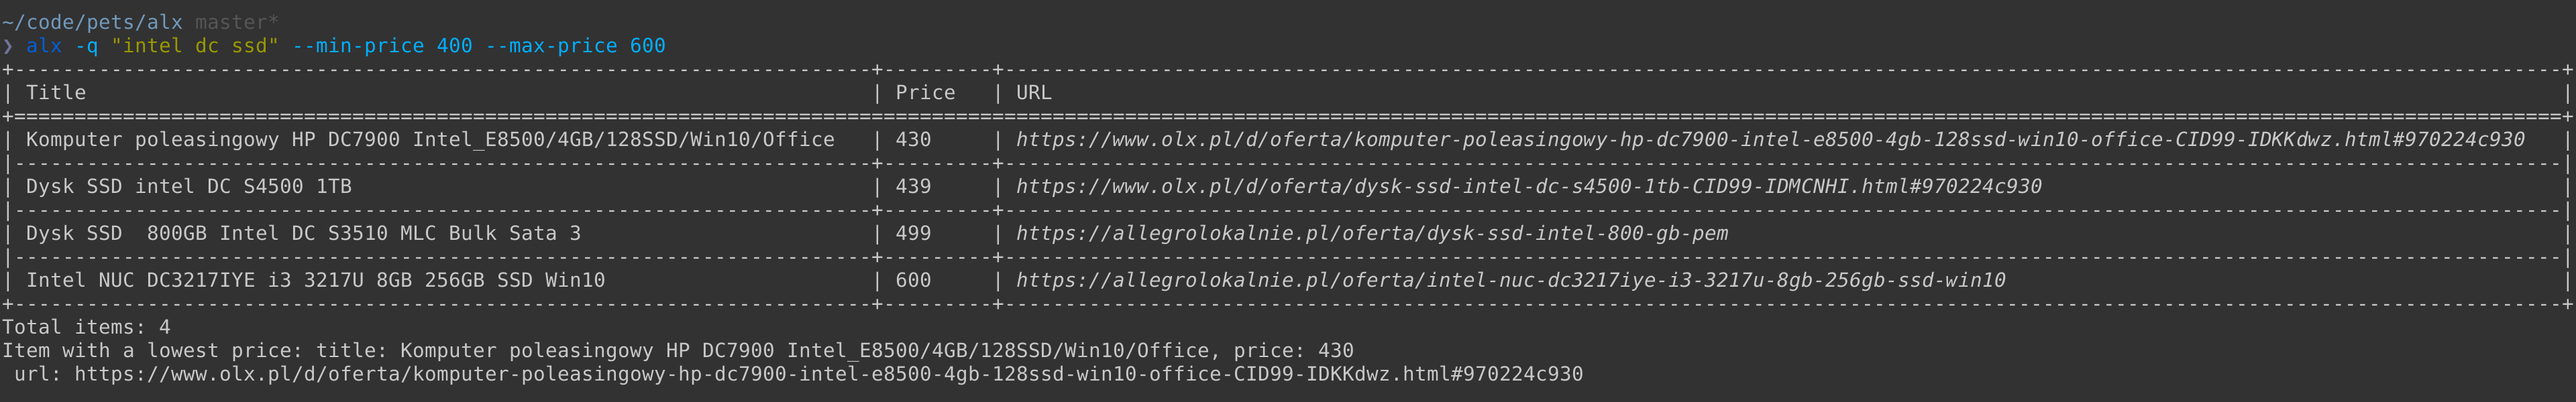
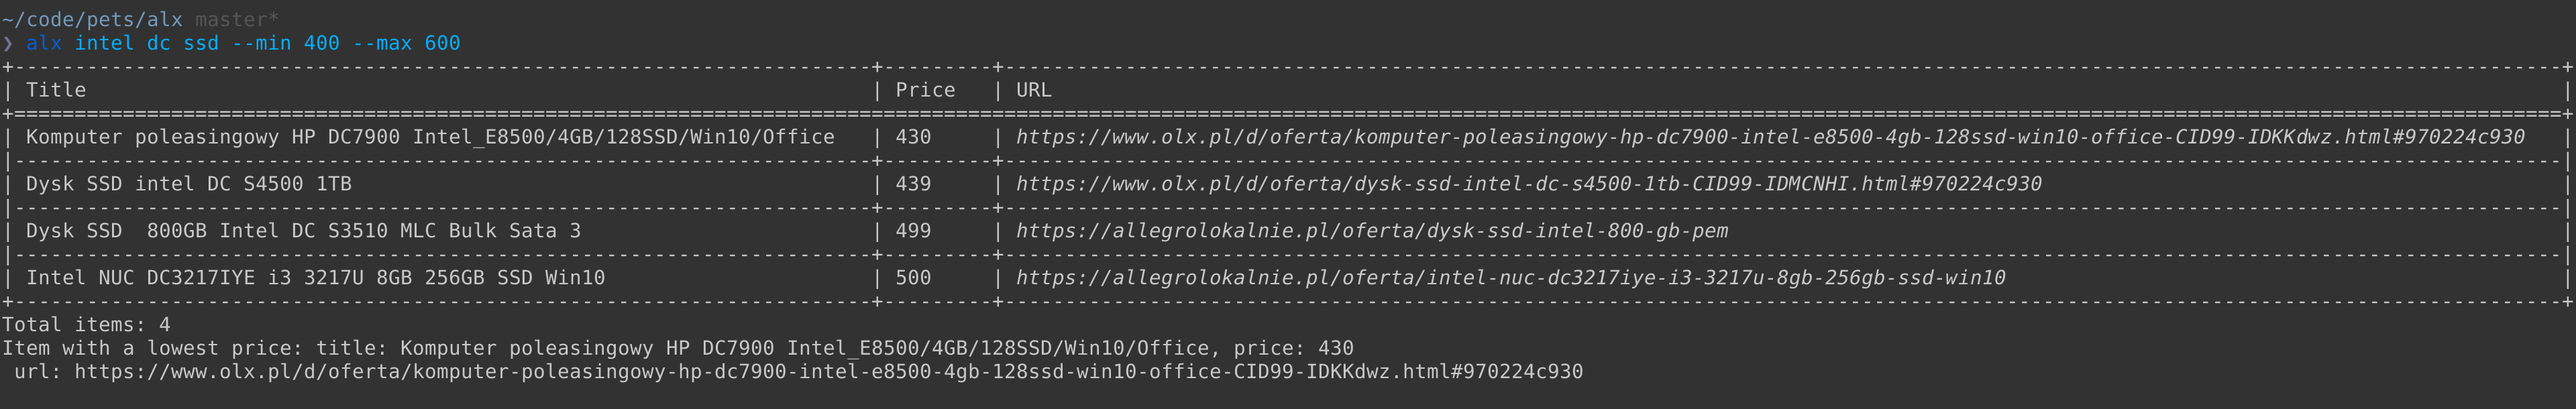
feat: simplify api; remove unused args

diff --git a/src/main.rs b/src/main.rs
@@ -14,30 +14,19 @@ mod allegro_lokalnie_client;
 mod olx_client;
 
 fn main() {
-    let default_config_path: &str =
-        &format!("{}/.config/alx_config.json", std::env::var("HOME").unwrap());
-
     let matches = App::new("alx")
-        .version("0.3.0")
+        .version("0.4.0")
         .author("Valentin Michaluk <valentin.michaluk@gmail.com>")
         .about("Hey Alx'er! Let's find something!")
         .arg(
-            Arg::with_name("query")
-                .required_unless("setup")
-                .short("q")
-                .long("query")
-                .takes_value(true)
-                .help("Search query"),
-        )
-        .arg(
             Arg::with_name("min_price")
-                .long("min-price")
+                .long("min")
                 .takes_value(true)
                 .help("Minimum price"),
         )
         .arg(
             Arg::with_name("max_price")
-                .long("max-price")
+                .long("max")
                 .takes_value(true)
                 .help("Maximum price"),
         )
@@ -48,26 +37,22 @@ fn main() {
                 .help("Exports search result into csv"),
         )
         .arg(
-            Arg::with_name("config_path")
-                .long("config-path")
-                .short("c")
-                .takes_value(true)
-                .help("Config path.")
-                .default_value(default_config_path),
-        )
-        .arg(
-            Arg::with_name("setup")
-                .long("setup")
-                .takes_value(false)
-                .help("Perform initial setup?"),
+            Arg::with_name("query")
+                .help("Search query")
+                .index(1)
+                .required(true)
+                .multiple(true),
         )
         .get_matches();
 
-    // let config_path: &str = matches.value_of("config_path").unwrap();
-    // if matches.is_present("setup") {
-    // }
     let mut params = HashMap::new();
-    params.insert("query", matches.value_of("query").unwrap());
+
+    let q: &str = &matches
+        .values_of("query")
+        .unwrap()
+        .collect::<Vec<&str>>()
+        .join(" ");
+    params.insert("query", q);
 
     if matches.is_present("min_price") {
         params.insert("min_price", matches.value_of("min_price").unwrap());
